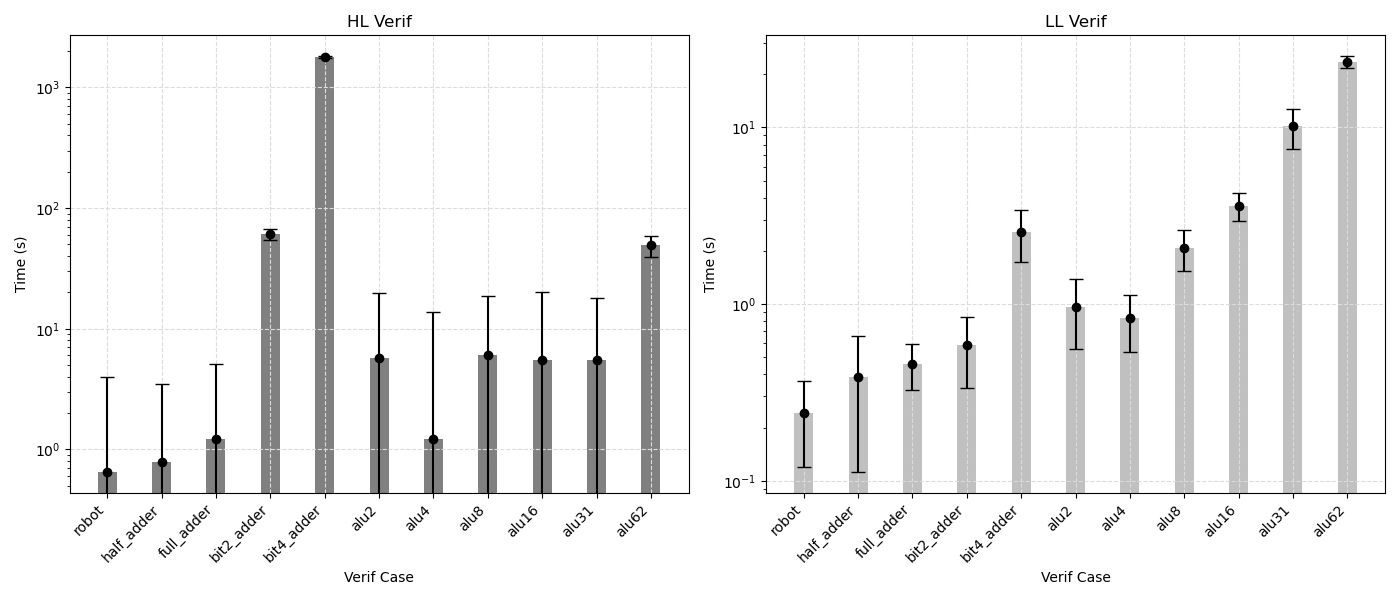
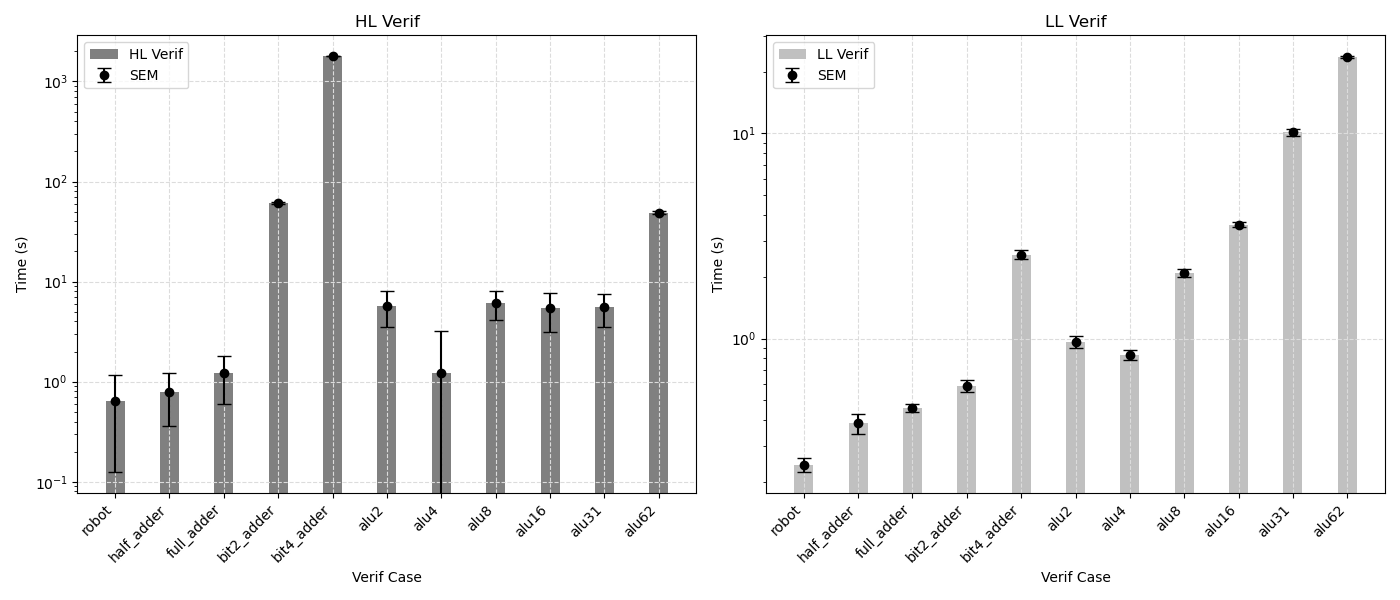
change for standart erro of the mean on the plot

diff --git a/src/plot_results.py b/src/plot_results.py
@@ -9,6 +9,9 @@ import numpy as np
 
 # Configuration
 
+# Number of times runned on the result files
+num_samples = 40  
+
 # List of result files
 results_files = [
     "verif_vercors/res_all.txt",
@@ -112,20 +115,21 @@ def generate_statistics(results_files, output_statistics_files):
 def read_statistics(file_path):
     test_names = []
     avg_times = []
-    std_devs = []
+    sems = []  # Will store standard error of the mean (SEM) instead of std dev
     with open(file_path, 'r') as file:
         lines = file.readlines()
         for line in lines[1:]:  # Skip the header
             if line.strip():  # Skip empty lines
                 parts = line.split()
                 test_name = parts[0]
-                avg_time = abs(float(parts[5]))  # 'Difference Avg' 
-                std_dev = float(parts[6])   # 'Combined Std Dev'
+                avg_time = abs(float(parts[5]))  # 'Difference Avg'
+                std_dev = float(parts[6])        # 'Combined Std Dev'
+                sem = std_dev / math.sqrt(num_samples)  # Calculate the SEM
                 
                 test_names.append(test_name)
                 avg_times.append(avg_time)
-                std_devs.append(std_dev)
-    return test_names, avg_times, std_devs
+                sems.append(sem)
+    return test_names, avg_times, sems
 
 # Function to plot the results
 def plot_results(statistics_data, file_labels, plot_title, output_image, add_trendline):
@@ -134,11 +138,11 @@ def plot_results(statistics_data, file_labels, plot_title, output_image, add_tre
     bar_width = 0.35 
 
     # Plot the first dataset
-    test_names1, avg_times1, std_devs1 = statistics_data[0]
+    test_names1, avg_times1, sems1 = statistics_data[0]
     x1 = np.arange(len(test_names1)) 
 
     bars_avg1 = ax1.bar(x1, avg_times1, bar_width, label=file_labels[0], color='gray')
-    ax1.errorbar(x1, avg_times1, yerr=std_devs1, fmt='o', color='black', capsize=5)
+    ax1.errorbar(x1, avg_times1, yerr=sems1, fmt='o', color='black', capsize=5, label='SEM')
 
     if add_trendline:
         z1 = np.polyfit(x1, avg_times1, 1)
@@ -152,11 +156,11 @@ def plot_results(statistics_data, file_labels, plot_title, output_image, add_tre
     ax1.set_yscale('log')
 
     # Plot the second dataset
-    test_names2, avg_times2, std_devs2 = statistics_data[1]
+    test_names2, avg_times2, sems2 = statistics_data[1]
     x2 = np.arange(len(test_names2))
 
     bars_avg2 = ax2.bar(x2, avg_times2, bar_width, label=file_labels[1], color='silver')
-    ax2.errorbar(x2, avg_times2, yerr=std_devs2, fmt='o', color='black', capsize=5)
+    ax2.errorbar(x2, avg_times2, yerr=sems2, fmt='o', color='black', capsize=5, label='SEM')
 
     if add_trendline:
         z2 = np.polyfit(x2, avg_times2, 1)
@@ -180,7 +184,11 @@ def plot_results(statistics_data, file_labels, plot_title, output_image, add_tre
 
     ax1.grid(linestyle='dashed', color='gainsboro')
     ax2.grid(linestyle='dashed', color='gainsboro')
-        
+
+    # Add a legend explaining the error bars
+    ax1.legend(loc='upper left')
+    ax2.legend(loc='upper left')
+
     fig.tight_layout()
     plt.grid(True)
     plt.savefig(output_image)
